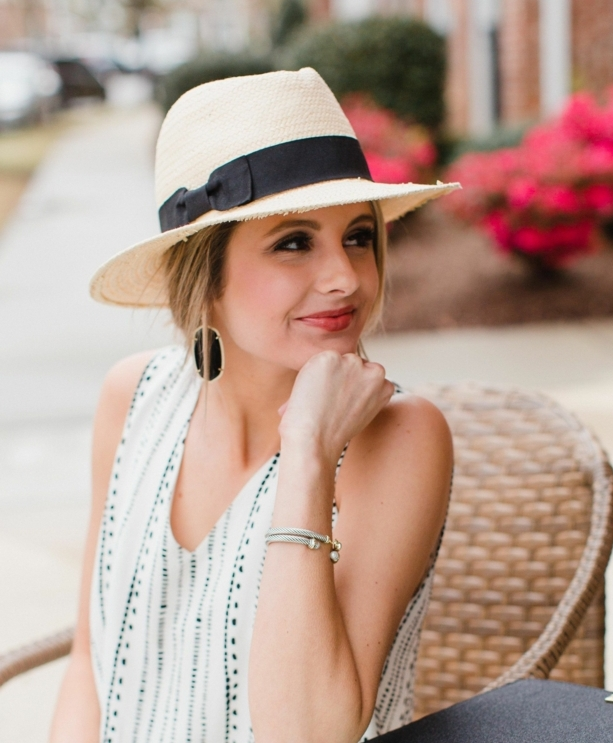
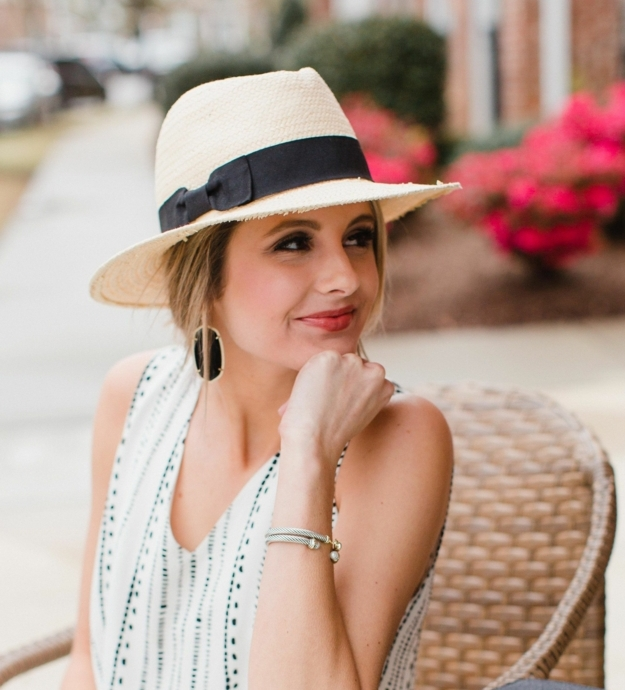
modif fedora

diff --git a/views/produits/mode.php b/views/produits/mode.php
@@ -84,7 +84,7 @@
                         </div>
                     </div>
                     <div class="col-md-4">
-                    <img class="img-fluid w-100 mt-2" src="<?php echo WWW_ROOT; ?>public/images/mode.jpeg" alt="mode">
+                    <img class="img-fluid w-100" src="<?php echo WWW_ROOT; ?>public/images/mode.jpeg" alt="mode">
                     </div>
 
                 </div>
